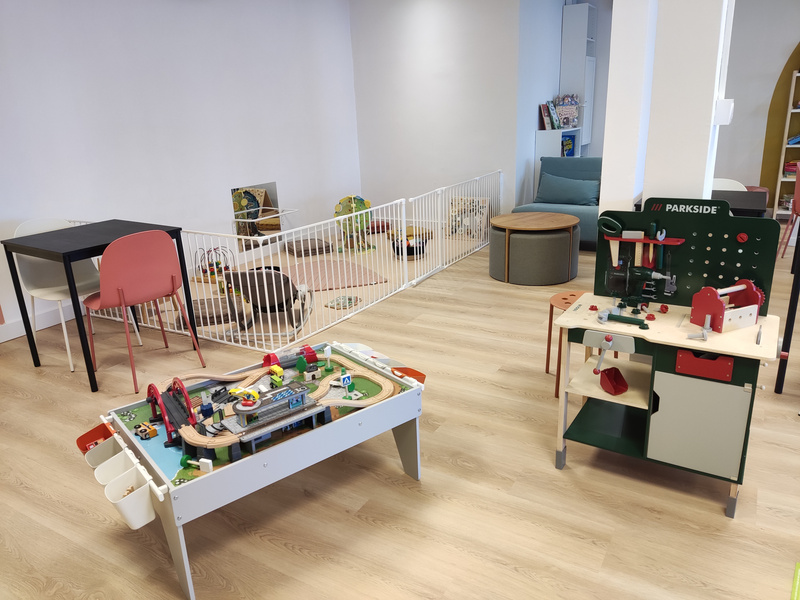
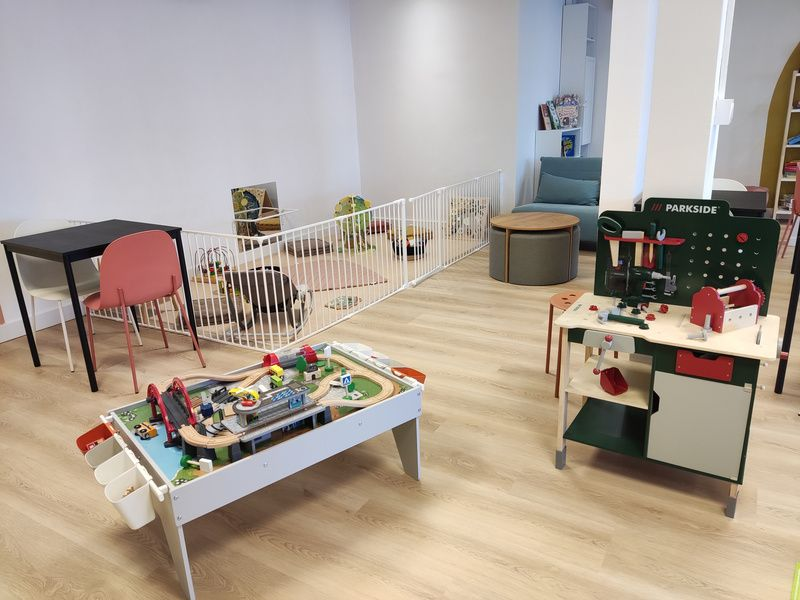
Optimisation images : conversion WebP, lazy loading, fallback JPG

diff --git a/index.html b/index.html
@@ -328,7 +328,10 @@
   </svg>
 
   <div class="container hero-inner">
-    <img class="hero-logo" src="assets/logo-creakid.png" alt="Créa-Kid">
+    <picture>
+      <source srcset="assets/logo-creakid.webp" type="image/webp">
+      <img class="hero-logo" src="assets/logo-creakid.png" alt="Créa-Kid">
+    </picture>
     <p class="hero-tagline">Jeux libres – Café – Ateliers</p>
     <h1 class="hero-sub">Plus qu'un espace de jeux : un lieu pour grandir ensemble.</h1>
 
@@ -446,11 +449,26 @@
     </div>
 
     <div class="gallery">
-      <img src="assets/photo-aire-jeux.jpg" alt="L'aire de jeux principale avec son mur fleuri">
-      <img src="assets/photo-circuit.jpg" alt="Espace circuits et jeux de construction">
-      <img src="assets/photo-atelier.jpg" alt="L'espace atelier avec son grand tableau noir">
-      <img src="assets/photo-motricite.jpg" alt="Espace motricité avec triangle et toboggan">
-      <img src="assets/photo-lecture.jpg" alt="Coin lecture cosy et bibliothèque">
+      <picture>
+        <source srcset="assets/photo-aire-jeux.webp" type="image/webp">
+        <img src="assets/photo-aire-jeux.jpg" alt="L'aire de jeux principale avec son mur fleuri" loading="lazy">
+      </picture>
+      <picture>
+        <source srcset="assets/photo-circuit.webp" type="image/webp">
+        <img src="assets/photo-circuit.jpg" alt="Espace circuits et jeux de construction" loading="lazy">
+      </picture>
+      <picture>
+        <source srcset="assets/photo-atelier.webp" type="image/webp">
+        <img src="assets/photo-atelier.jpg" alt="L'espace atelier avec son grand tableau noir" loading="lazy">
+      </picture>
+      <picture>
+        <source srcset="assets/photo-motricite.webp" type="image/webp">
+        <img src="assets/photo-motricite.jpg" alt="Espace motricité avec triangle et toboggan" loading="lazy">
+      </picture>
+      <picture>
+        <source srcset="assets/photo-lecture.webp" type="image/webp">
+        <img src="assets/photo-lecture.jpg" alt="Coin lecture cosy et bibliothèque" loading="lazy">
+      </picture>
       <div class="ph">
         <span>📷 photo<br>du café & des pâtisseries<br><em>à venir</em></span>
       </div>

diff --git a/concept.html b/concept.html
@@ -198,7 +198,10 @@
   <div class="container">
     <div class="space">
       <div class="space-visual">
-        <img src="assets/photo-aire-jeux.jpg" alt="Aire de jeux Créa-Kid">
+        <picture>
+          <source srcset="assets/photo-aire-jeux.webp" type="image/webp">
+          <img src="assets/photo-aire-jeux.jpg" alt="Aire de jeux Créa-Kid" loading="lazy">
+        </picture>
       </div>
       <div class="space-body">
         <span class="tag tag-peach">01 · Aire de jeux</span>
@@ -245,7 +248,10 @@
   <div class="container">
     <div class="space">
       <div class="space-visual">
-        <img src="assets/photo-atelier.jpg" alt="Espace atelier avec grand tableau noir">
+        <picture>
+          <source srcset="assets/photo-atelier.webp" type="image/webp">
+          <img src="assets/photo-atelier.jpg" alt="Espace atelier avec grand tableau noir" loading="lazy">
+        </picture>
       </div>
       <div class="space-body">
         <span class="tag tag-mint">03 · Ateliers</span>
